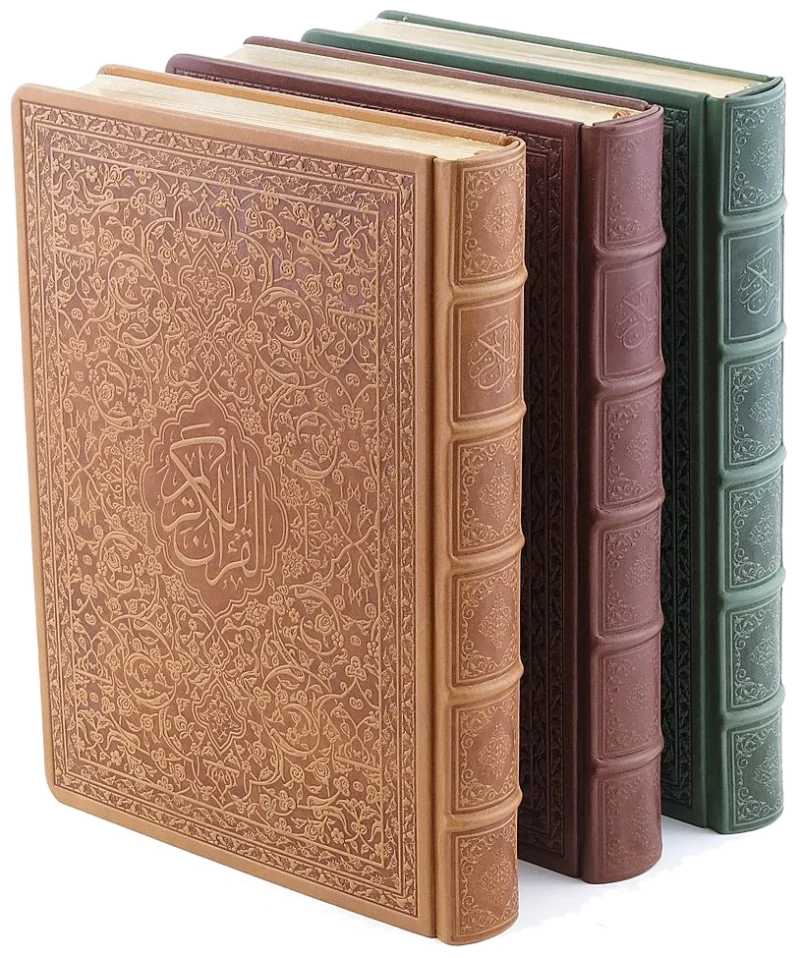
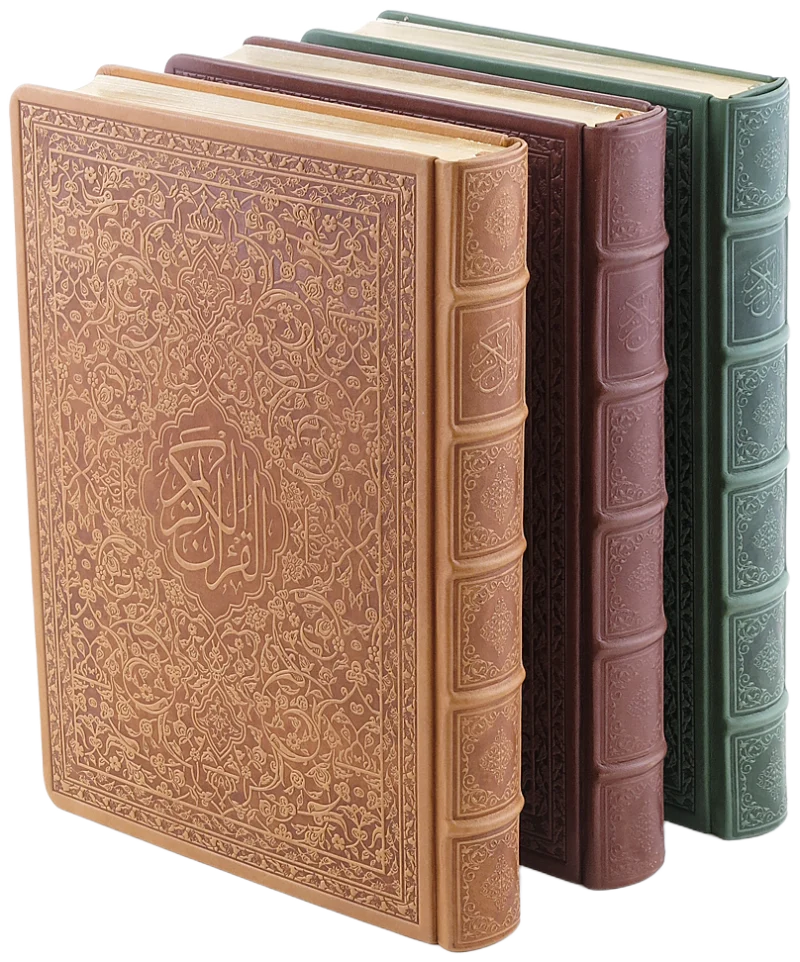
Hero: kullanicinin yeni temiz fotografi (1262icitemiz, v3); panel PNG ailesi hatasi duzeltildi (webp kardesler artik guncelleniyor); Otuken gercek logosu; 'Secilmis yayincilar' -> 'Birlikte calistigimiz'

Changed region(s): [[0.0, 0.0605, 1.0, 0.999], [0.4375, 0.0908, 0.5, 0.1211], [0.375, 0.0908, 0.4062, 0.1211]]

diff --git a/ar/index.html b/ar/index.html
@@ -97,8 +97,8 @@
       </div>
       <div class="hero-figure bare reveal">
         <picture>
-          <source type="image/webp" srcset="../assets/img/hero-trio-cut-800.webp?v=2">
-          <img src="../assets/img/hero-trio-cut-800.png?v=2" alt="ثلاثة مصاحف مجلدة بالجلد الطبيعي بألوان التبغ والعنابي والأخضر مع أعصاب كعب بارزة مشكّلة يدويًا" width="800" height="958">
+          <source type="image/webp" srcset="../assets/img/hero-trio-cut-800.webp?v=3">
+          <img src="../assets/img/hero-trio-cut-800.png?v=3" alt="ثلاثة مصاحف مجلدة بالجلد الطبيعي بألوان التبغ والعنابي والأخضر مع أعصاب كعب بارزة مشكّلة يدويًا" width="800" height="958">
         </picture>
       </div>
     </div>

diff --git a/index.html b/index.html
@@ -95,8 +95,8 @@
       </div>
       <div class="hero-figure bare reveal">
         <picture>
-          <source type="image/webp" srcset="assets/img/hero-trio-cut-800.webp">
-          <img src="assets/img/hero-trio-cut-800.png" alt="Three genuine-leather Qur'an bindings in tan, maroon and green with hand-formed raised spine bands" width="800" height="958">
+          <source type="image/webp" srcset="assets/img/hero-trio-cut-800.webp?v=3">
+          <img src="assets/img/hero-trio-cut-800.png?v=3" alt="Three genuine-leather Qur'an bindings in tan, maroon and green with hand-formed raised spine bands" width="800" height="958">
         </picture>
       </div>
     </div>

diff --git a/tr/index.html b/tr/index.html
@@ -95,8 +95,8 @@
       </div>
       <div class="hero-figure bare reveal">
         <picture>
-          <source type="image/webp" srcset="../assets/img/hero-trio-cut-800.webp?v=2">
-          <img src="../assets/img/hero-trio-cut-800.png?v=2" alt="Elle şekillendirilmiş kabartma sırt şeritli, tütün, bordo ve yeşil renkte üç hakiki deri Kur'an cildi" width="800" height="958">
+          <source type="image/webp" srcset="../assets/img/hero-trio-cut-800.webp?v=3">
+          <img src="../assets/img/hero-trio-cut-800.png?v=3" alt="Elle şekillendirilmiş kabartma sırt şeritli, tütün, bordo ve yeşil renkte üç hakiki deri Kur'an cildi" width="800" height="958">
         </picture>
       </div>
     </div>

diff --git a/about.html b/about.html
@@ -88,7 +88,7 @@
     <div class="wrap">
       <div class="section-head reveal">
         <span class="kicker">Trusted by</span>
-        <h2>Selected publishers &amp; institutions</h2>
+        <h2>Publishers &amp; institutions we work with</h2>
         <p>Produced for Türkiye's leading religious and heritage publishers over four decades.</p>
       </div>
       <ul class="refs reveal">

diff --git a/ar/about.html b/ar/about.html
@@ -88,7 +88,7 @@
     <div class="wrap">
       <div class="section-head reveal">
         <span class="kicker">يثقون بنا</span>
-        <h2>دور نشر ومؤسسات مختارة</h2>
+        <h2>دور نشر ومؤسسات نعمل معها</h2>
         <p>أنتجنا لكبرى دور النشر الدينية والتراثية في تركيا على مدى أربعة عقود.</p>
       </div>
       <ul class="refs reveal">

diff --git a/tr/about.html b/tr/about.html
@@ -86,7 +86,7 @@
     <div class="wrap">
       <div class="section-head reveal">
         <span class="kicker">Bize güvenenler</span>
-        <h2>Seçilmiş yayıncılar ve kurumlar</h2>
+        <h2>Birlikte çalıştığımız yayıncılar ve kurumlar</h2>
         <p>Kırk yıl boyunca Türkiye'nin önde gelen dini ve klasik eser yayıncıları için üretildi.</p>
       </div>
       <ul class="refs reveal">